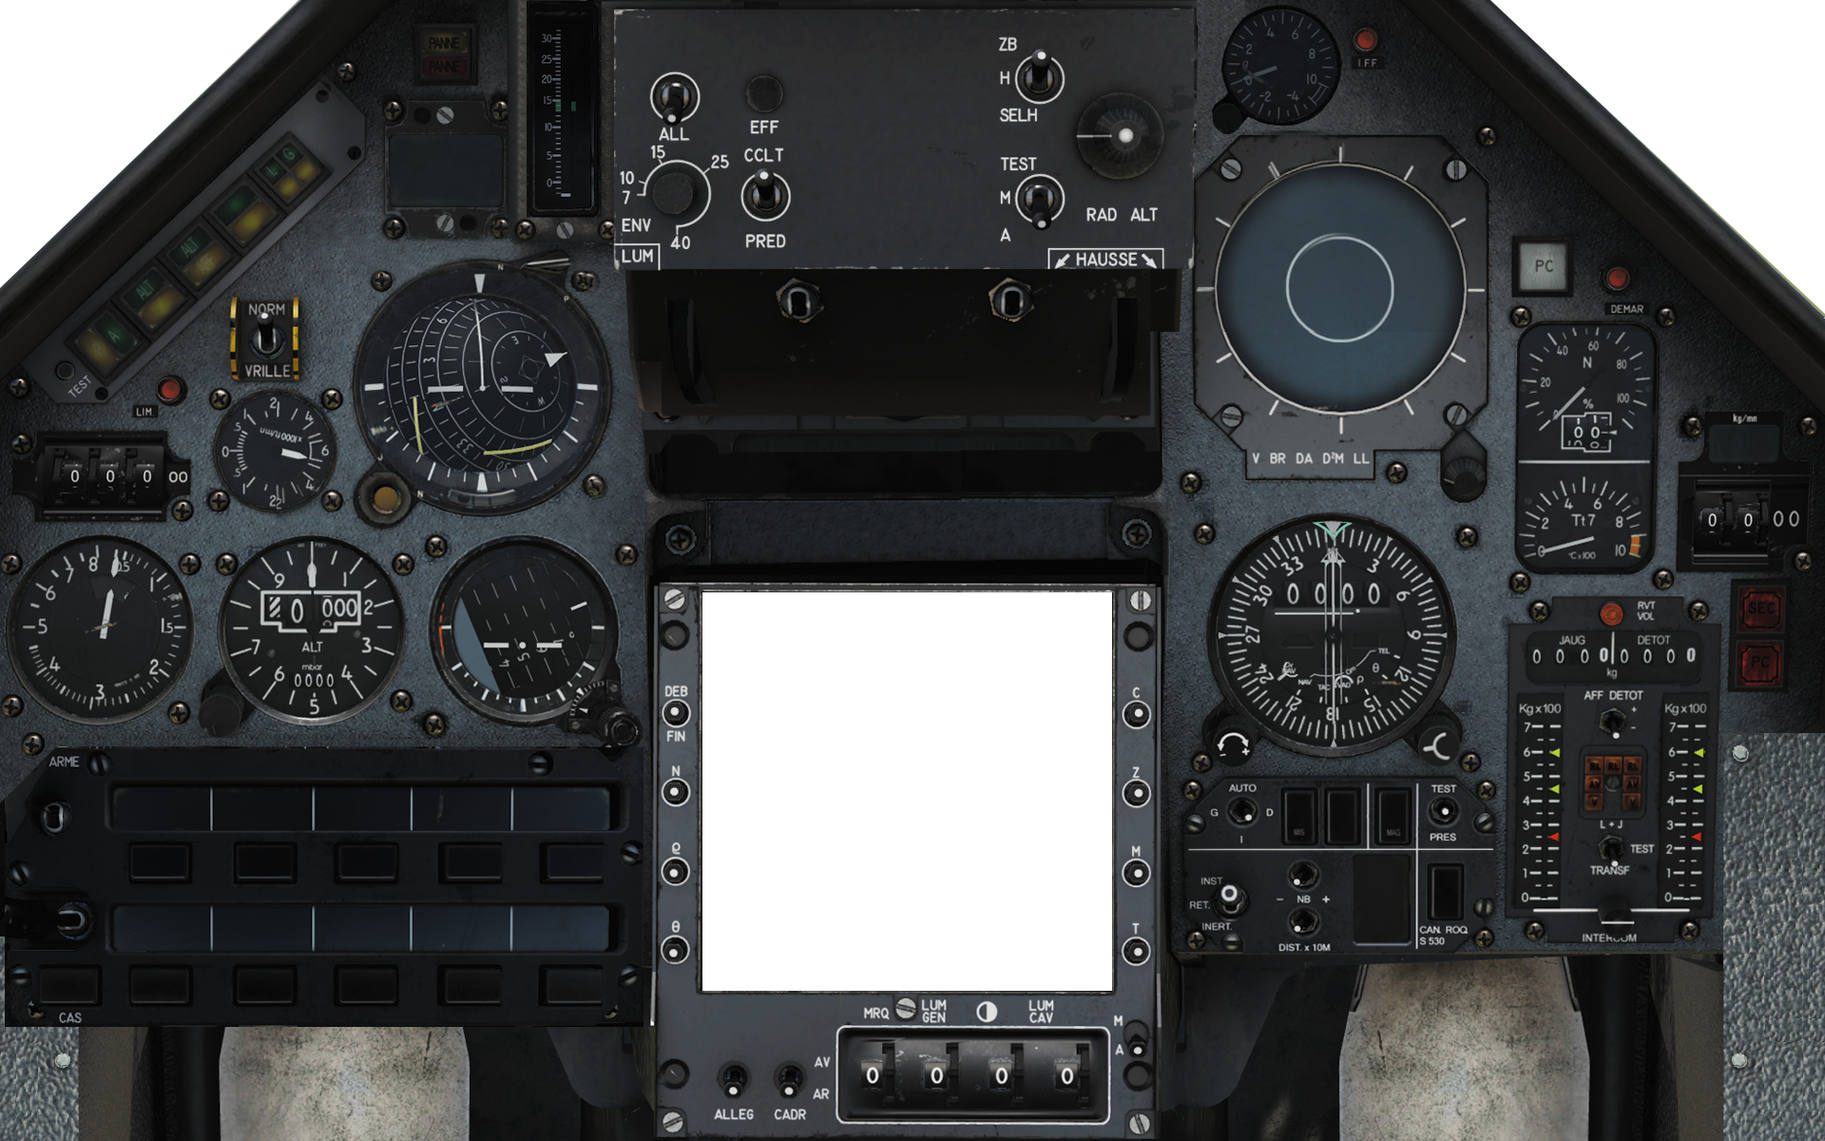
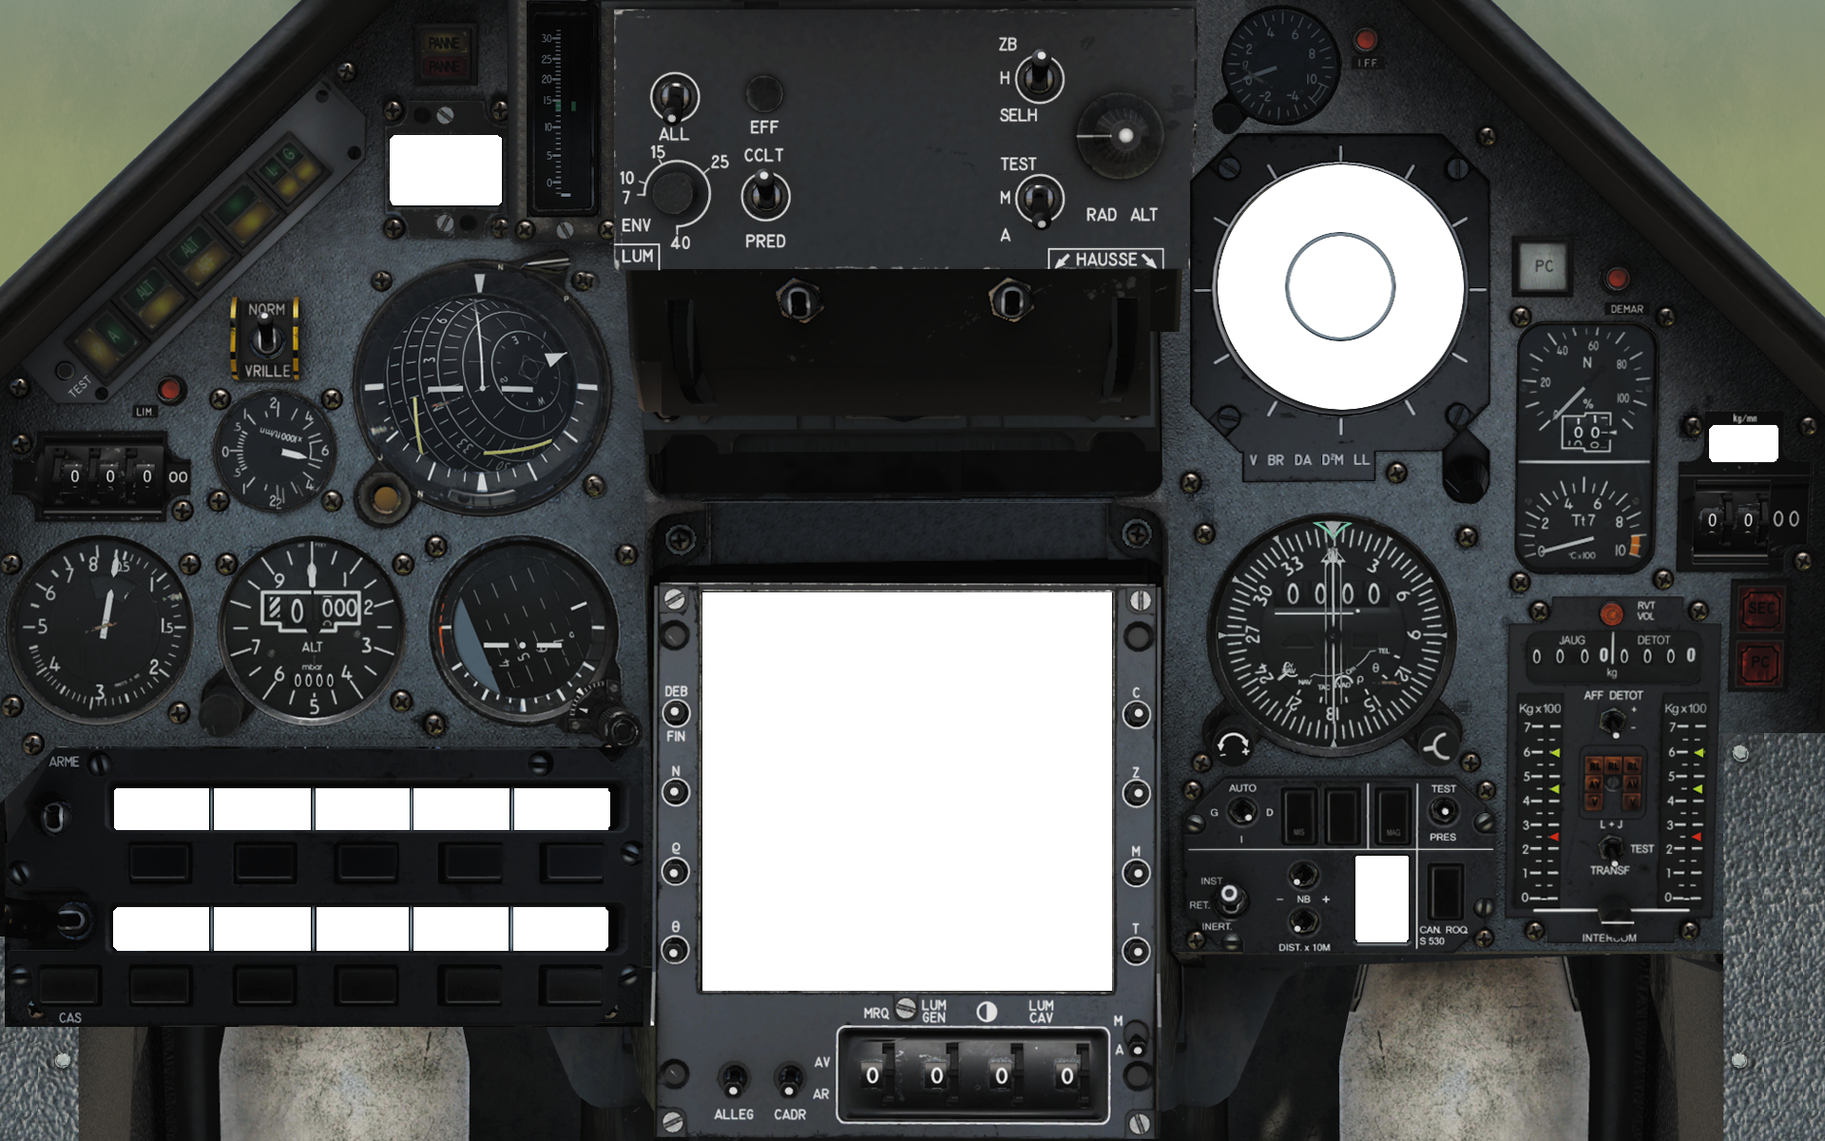
Added the Landing Gear panel and work on the picture of the cockpit. See the Helios.M2000C.Read.Me.txt

diff --git a/Helios/Interfaces/DCS/M2000C/M2000CInterface.cs b/Helios/Interfaces/DCS/M2000C/M2000CInterface.cs
@@ -144,6 +144,26 @@ namespace GadrocsWorkshop.Helios.Interfaces.DCS.M2000C
             AddFunction(new Switch(this, ENGPANEL, "651", new SwitchPosition[] { new SwitchPosition("0.0", "CLOSE", "3651"), new SwitchPosition("1.0", "OPEN", "3651") }, "Engine Start Panel", "Fuel Cutoff Switch Cover", "%0.1f"));    // elements["PTN_651"] = default_2_position_tumb(_("Fuel Cutoff Switch Cover"), devices.ENGPANEL, device_commands.Button_651, 651)
             AddFunction(new Switch(this, ENGPANEL, "652", new SwitchPosition[] { new SwitchPosition("1.0", "OFF", "3652"), new SwitchPosition("0.0", "ON", "3652") }, "Engine Start Panel", "Fuel Shut-Off Switch", "%0.1f"));    // elements["PTN_652"] = default_2_position_tumb(_("Fuel Cutoff Switch"), devices.ENGPANEL, device_commands.Button_652, 652)
             #endregion
+            #region  Landing Gear
+            AddFunction(new FlagValue(this, "410", "Landing Gear Panel", "A", "A Warnlamp"));
+            AddFunction(new FlagValue(this, "411", "Landing Gear Panel", "F", "F Warnlamp"));
+            AddFunction(new FlagValue(this, "412", "Landing Gear Panel", "DIRAV", "DIRA Warnlamp, blau"));
+            AddFunction(new FlagValue(this, "413", "Landing Gear Panel", "FREIN", "FREIN"));
+            AddFunction(new FlagValue(this, "414", "Landing Gear Panel", "CROSS", "Cross"));
+            AddFunction(new FlagValue(this, "415", "Landing Gear Panel", "SPAD", "SPAD"));
+            AddFunction(new FlagValue(this, "416", "Landing Gear Panel", "BIP", "Red Warnlamp under BIP"));
+            AddFunction(new FlagValue(this, "417", "Landing Gear Panel", "left-gear", "Left Gear"));
+            AddFunction(new FlagValue(this, "418", "Landing Gear Panel", "nose-gear", "Nose Gear"));
+            AddFunction(new FlagValue(this, "419", "Landing Gear Panel", "right-gear", "Right Gear"));
+            AddFunction(new Switch(this, INSTPANEL, "404", new SwitchPosition[] { new SwitchPosition("0.0", "UP", "3404"), new SwitchPosition("1.0", "DOWN", "3404") }, "Landing Gear Panel", "Landing Gear Lever", "%0.1f"));    // elements["PTN_404"] = default_animated_lever(_("Landing Gear Lever"), devices.INSTPANEL, device_commands.Button_404, 404,5.0)
+            AddFunction(new Switch(this, PCA_PPA, "463", new SwitchPosition[] { new SwitchPosition("1.0", "SECU", "3463"), new SwitchPosition("0.0", "ARMED", "3463") }, "Landing Gear Panel", "Gun Arming Switch", "%0.1f"));    // elements["PTN_463"] = default_2_position_tumb(_("Gun Arm/Safe Switch"), devices.PCA_PPA, device_commands.Button_463, 463)
+            AddFunction(new Switch(this, ENGINE, "421", new SwitchPosition[] { new SwitchPosition("0.0", "NORM", "3421"), new SwitchPosition("1.0", "GAIN CDVE", "3421") }, "Landing Gear Panel", "Fly by Wire Gain Mode Switch", "%0.1f"));    // elements["PTN_421"] = default_2_position_tumb(_("FBW Gain Mode Switch"),  devices.ENGINE, device_commands.Button_421, 421)
+            AddFunction(new Switch(this, ENGINE, "422", new SwitchPosition[] { new SwitchPosition("0.0", "AA", "3422"), new SwitchPosition("1.0", "CHARGES", "3422") }, "Landing Gear Panel", "Fly by Wire G Limiter Switch", "%0.1f"));    // elements["PTN_422"] = default_2_position_tumb(_("FBW G-Limiter Switch"),  devices.ENGINE, device_commands.Button_422, 422)
+//            AddFunction(new Switch(this, INSTPANEL, "408", new SwitchPosition[] { new SwitchPosition("0.0", "ON", "3408"), new SwitchPosition("1.0", "OFF", "3408") }, "Landing Gear Panel", "Emergency Landing Gear Lever", "%0.1f"));    // elements["PTN_408"] = default_animated_lever(_("Landing Gear Emergency Release Lever"), devices.INSTPANEL, device_commands.Button_408, 408, 5.0)
+            AddFunction(new Switch(this, INSTPANEL, "408", new SwitchPosition[] { }, "Landing Gear Panel", "Emergency Landing Gear Lever", "%0.1f"));    // elements["PTN_408"] = default_animated_lever(_("Landing Gear Emergency Release Lever"), devices.INSTPANEL, device_commands.Button_408, 408, 5.0)
+            AddFunction(new PushButton(this, PCA_PPA, "3409", "409", "Landing Gear Panel", "Emergency Jettison Lever"));    // elements["PTN_409"] = default_button(_("Emergency Jettison"), devices.PCA_PPA, device_commands.Button_409, 409, 0, 1)
+            // 
+            #endregion
             #region MCL Panel
             AddFunction(new FlagValue(this, "199", "Master Caution Lights Panel", "panne-yellow", "Master-warning"));
             AddFunction(new FlagValue(this, "200", "Master Caution Lights Panel", "panne-red", "Master-caution"));
@@ -210,16 +230,6 @@ namespace GadrocsWorkshop.Helios.Interfaces.DCS.M2000C
             AddFunction(new FlagValue(this, "367", "Indicators", "Indicators 367", "Fuel Left V"));
             AddFunction(new FlagValue(this, "368", "Indicators", "Indicators 368", "Fuel Right V"));
             AddFunction(new FlagValue(this, "405", "Indicators", "Indicators 405", "Gearhandle Innenleuchte, red"));
-            AddFunction(new FlagValue(this, "410", "Indicators", "Indicators 410", "A Warnlamp"));
-            AddFunction(new FlagValue(this, "411", "Indicators", "Indicators 411", "F Warnlamp"));
-            AddFunction(new FlagValue(this, "412", "Indicators", "Indicators 412", "DIRA Warnlamp, blau"));
-            AddFunction(new FlagValue(this, "413", "Indicators", "Indicators 413", "FREIN"));
-            AddFunction(new FlagValue(this, "414", "Indicators", "Indicators 414", "Cross"));
-            AddFunction(new FlagValue(this, "415", "Indicators", "Indicators 415", "SPAD"));
-            AddFunction(new FlagValue(this, "416", "Indicators", "Indicators 416", "Red Warnlamp under BIP"));
-            AddFunction(new FlagValue(this, "417", "Indicators", "Indicators 417", "Left Gear"));
-            AddFunction(new FlagValue(this, "418", "Indicators", "Indicators 418", "Nose Gear"));
-            AddFunction(new FlagValue(this, "419", "Indicators", "Indicators 419", "Right Gear"));
             AddFunction(new FlagValue(this, "677", "Indicators", "Indicators 677", "COM left green lamp"));
             AddFunction(new FlagValue(this, "519", "Indicators", "Indicators 519", "Oxy flow lamp"));
             AddFunction(new FlagValue(this, "490", "Indicators", "Indicators 490", "Left consule VAL"));
@@ -319,11 +329,6 @@ namespace GadrocsWorkshop.Helios.Interfaces.DCS.M2000C
                 new SwitchPosition("0.95", "Channel 19", CMD+UVHF_CHANNEL), new SwitchPosition("1", "Channel 20", CMD+UVHF_CHANNEL)}, "Radio Panel", "U/VHF Channel Selector", "%0.2f"));
                 */
             #endregion
-            #region  Landing Gear
-            //AddFunction(Switch.CreateToggleSwitch(this, INSTPANEL, "3404", "404", "Landing Gear", "Landing Gear Lever", "%0.1f"));    // elements["PTN_404"] = default_animated_lever(_("Landing Gear Lever"), devices.INSTPANEL, device_commands.Button_404, 404,5.0)
-            //AddFunction(Switch.CreateToggleSwitch(this, INSTPANEL, "3408", "408", "Landing Gear", "Landing Gear Emergency Release Lever", "%0.1f"));    // elements["PTN_408"] = default_animated_lever(_("Landing Gear Emergency Release Lever"), devices.INSTPANEL, device_commands.Button_408, 408, 5.0)
-            // 
-            #endregion
             #region  HUD/VTB"
             AddFunction(new Switch(this, VTH_VTB, "201", new SwitchPosition[] { }, "HUD/VTB", "HUD Power Switch", "%0.1f"));    // elements["PTN_201"] = multiposition_switch_limited(_("HUD Power Switch"), devices.VTH_VTB, device_commands.Button_201, 201, 3, 0.5, false, 0)
             //AddFunction(Switch.CreateToggleSwitch(this, VTH_VTB, "3203", "203", "HUD/VTB", "HUD Declutter Switch", "%0.1f"));    // elements["PTN_203"] = default_2_way_spring_switch(_("HUD Declutter Switch"), devices.VTH_VTB, device_commands.Button_203, 203, true)
@@ -354,7 +359,6 @@ namespace GadrocsWorkshop.Helios.Interfaces.DCS.M2000C
 
             #endregion
             #region  PCA/PPA
-            AddFunction(new PushButton(this, PCA_PPA, "3463", "463", "PCA/PPA", "Gun Arm/Safe Switch"));    // elements["PTN_463"] = default_2_position_tumb(_("Gun Arm/Safe Switch"), devices.PCA_PPA, device_commands.Button_463, 463)
             AddFunction(new PushButton(this, PCA_PPA, "3234", "234", "PCA/PPA", "Master Arm Switch"));    // elements["PTN_234"] = default_2_position_tumb(_("Master Arm Switch"), devices.PCA_PPA, device_commands.Button_234, 234)
             AddFunction(new PushButton(this, PCA_PPA, "3248", "248", "PCA/PPA", "Selective Jettison Switch Cover"));    // elements["PTN_248"] = default_2_position_tumb(_("Selective Jettison Switch Cover"), devices.PCA_PPA, device_commands.Button_248, 248)
             AddFunction(new PushButton(this, PCA_PPA, "3249", "249", "PCA/PPA", "Selective Jettison Switch"));    // elements["PTN_249"] = default_2_position_tumb(_("Selective Jettison Switch"), devices.PCA_PPA, device_commands.Button_249, 249)
@@ -384,7 +388,6 @@ namespace GadrocsWorkshop.Helios.Interfaces.DCS.M2000C
                                                                                                                                          //AddFunction(Switch.CreateToggleSwitch(this, PCA_PPA, "3277", "277", "PCA/PPA", "Bomb Release Quantity Selector Switch", "%0.1f"));    // elements["PTN_277"] = default_2_way_spring_switch(_("Bomb Release Quantity Selector Switch"), devices.PCA_PPA, device_commands.Button_277, 277, true)
                                                                                                                                          //AddFunction(Switch.CreateToggleSwitch(this, PCA_PPA, "3278", "278", "PCA/PPA", "Bomb Release Interval Selector Switch", "%0.1f"));    // elements["PTN_278"] = default_2_way_spring_switch(_("Bomb Release Interval Selector Switch"), devices.PCA_PPA, device_commands.Button_278, 278, true)
                                                                                                                                          // 
-            AddFunction(new PushButton(this, PCA_PPA, "3409", "409", "PCA/PPA", "Emergency Jettison"));    // elements["PTN_409"] = default_button(_("Emergency Jettison"), devices.PCA_PPA, device_commands.Button_409, 409, 0, 1)
 
             #endregion
             #region  AFCS
@@ -409,8 +412,6 @@ namespace GadrocsWorkshop.Helios.Interfaces.DCS.M2000C
             #region  FBW
             AddFunction(new PushButton(this, ENGINE, "3330", "330", "FBW", "FBW Spin Mode Switch"));    // elements["PTN_330"] = default_2_position_tumb(_("FBW Spin Mode Switch"), devices.ENGINE, device_commands.Button_330, 330)
             AddFunction(new PushButton(this, ENGINE, "3420", "420", "FBW", "FBW Gain Mode Switch Cover"));    // elements["PTN_420"] = default_2_position_tumb(_("FBW Gain Mode Switch Cover"),  devices.ENGINE, device_commands.Button_420, 420)
-            AddFunction(new PushButton(this, ENGINE, "3421", "421", "FBW", "FBW Gain Mode Switch"));    // elements["PTN_421"] = default_2_position_tumb(_("FBW Gain Mode Switch"),  devices.ENGINE, device_commands.Button_421, 421)
-            AddFunction(new PushButton(this, ENGINE, "3422", "422", "FBW", "FBW G-Limiter Switch"));    // elements["PTN_422"] = default_2_position_tumb(_("FBW G-Limiter Switch"),  devices.ENGINE, device_commands.Button_422, 422)
             AddFunction(new PushButton(this, AFCS, "3423", "423", "FBW", "FBW Reset Button"));    // elements["PTN_423"] = default_button(_("FBW Reset Button"),  devices.AFCS, device_commands.Button_423, 423)
 
             #endregion

diff --git a/Helios/Gauges/M2000C/LGPanel/LG_Panel.cs b/Helios/Gauges/M2000C/LGPanel/LG_Panel.cs
@@ -1,0 +1,183 @@
+//  Copyright 2014 Craig Courtney
+//    
+//  Helios is free software: you can redistribute it and/or modify
+//  it under the terms of the GNU General Public License as published by
+//  the Free Software Foundation, either version 3 of the License, or
+//  (at your option) any later version.
+//
+//  Helios is distributed in the hope that it will be useful,
+//  but WITHOUT ANY WARRANTY; without even the implied warranty of
+//  MERCHANTABILITY or FITNESS FOR A PARTICULAR PURPOSE.  See the
+//  GNU General Public License for more details.
+//
+//  You should have received a copy of the GNU General Public License
+//  along with this program.  If not, see <http://www.gnu.org/licenses/>.
+
+namespace GadrocsWorkshop.Helios.Gauges.M2000C
+{
+    using GadrocsWorkshop.Helios.ComponentModel;
+    using GadrocsWorkshop.Helios.Controls;
+    using System;
+    using System.Globalization;
+    using System.Windows;
+    using System.Windows.Media;
+/*
+    public class RSPositions
+    {
+        private int _position;
+        private string _name;
+        private double _rotation;
+
+        public RSPositions(int position, string name, double rotation)
+        {
+            _position = position;
+            _name = name;
+            _rotation = rotation;
+        }
+    }
+    */
+    [HeliosControl("HELIOS.M2000C.LG_PANEL", "Landing Gear Panel", "M2000C Gauges", typeof(M2000CDeviceRenderer))]
+    class M2000C_LGPanel : M2000CDevice
+    {
+        private static readonly Rect SCREEN_RECT = new Rect(0, 0, 300, 390);
+        private string _interfaceDeviceName = "Landing Gear Panel";
+        private Rect _scaledScreenRect = SCREEN_RECT;
+        
+        public M2000C_LGPanel()
+            : base("Landing Gear Panel", new Size(300, 390))
+        {
+            int row0 = 30, row1 = 173, row2 = 191, row3 = 210, row4 = 228, row5 = 232, row6 = 242, row7 = 214, row8 = 234;
+            int column1 = 202, column2 = 217, column3 = 232, column4 = 248, column5 = 262;
+            int sizeIndicX = 23, sizeIndicY = 14;
+            AddPushButton("Emergency Jettison Lever");
+
+            //First row
+            AddIndicator("A", new Point (column2, row1), new Size(sizeIndicX, sizeIndicY));
+            AddIndicator("F", new Point(column4, row1), new Size(sizeIndicX, sizeIndicY));
+            //Second row
+            AddIndicator("DIRAV", new Point(column1, row2), new Size(sizeIndicX, sizeIndicY));
+            AddIndicator("FREIN", new Point(column5, row2), new Size(sizeIndicX, sizeIndicY));
+            //Third row
+            AddIndicator("CROSS", new Point(column1, row3), new Size(sizeIndicX, sizeIndicY));
+            AddIndicator("SPAD", new Point(column5, row3), new Size(sizeIndicX, sizeIndicY));
+            //Forth row
+            AddIndicator("BIP", new Point(column3, row4), new Size(24, 10));
+            //Fifth row
+            AddIndicator("left-gear", new Point(219, row5), new Size(7,20));
+            AddIndicator("right-gear", new Point(265, row5), new Size(7, 20));
+            //Sixth row
+            AddIndicator("nose-gear", new Point(242, row6), new Size(7, 17));
+
+            AddSwitch("Gun Arming Switch", "{M2000C}/Images/Switches/red-", new Point(156, 173), new Size(25, 70), ToggleSwitchPosition.Two, ToggleSwitchType.OnOn);
+            AddSwitch("Fly by Wire Gain Mode Switch", "{M2000C}/Images/Switches/black-circle-", new Point(163, 257), new Size(25, 70), ToggleSwitchPosition.One, ToggleSwitchType.OnOn);
+            AddSwitch("Fly by Wire G Limiter Switch", "{M2000C}/Images/Switches/black-circle-", new Point(241, 255), new Size(25, 70), ToggleSwitchPosition.One, ToggleSwitchType.OnOn);
+            AddSwitch("Landing Gear Lever", "{M2000C}/Images/LGPanel/landing-gear-", new Point(70, 140), new Size(50, 170), ToggleSwitchPosition.Two, ToggleSwitchType.OnOn);
+
+            AddRotarySwitch("Emergency Landing Gear Lever");
+        }
+
+        #region Properties
+
+        public override string BezelImage
+        {
+            get { return "{M2000C}/Images/LGPanel/lg-panel.png"; }
+        }
+
+        #endregion
+
+        protected override void OnPropertyChanged(PropertyNotificationEventArgs args)
+        {
+            if (args.PropertyName.Equals("Width") || args.PropertyName.Equals("Height"))
+            {
+                double scaleX = Width / NativeSize.Width;
+                double scaleY = Height / NativeSize.Height;
+                _scaledScreenRect.Scale(scaleX, scaleY);
+            }
+            base.OnPropertyChanged(args);
+        }
+
+        private void AddIndicator(string name, Point posn, Size size)
+        {
+            AddIndicator(
+                name: name,
+                posn: posn,
+                size: size,
+                onImage: "{M2000C}/Images/LGPanel/" + name + "-on.png",
+                offImage: "{M2000C}/Images/LGPanel/" + name + "-off.png",
+                onTextColor: Color.FromArgb(0xff, 0x7e, 0xde, 0x72), //don’t need it because not using text
+                offTextColor: Color.FromArgb(0xff, 0x7e, 0xde, 0x72), //don’t need it because not using text
+                font: "", //don’t need it because not using text
+                vertical: false, //don’t need it because not using text
+                interfaceDeviceName: _interfaceDeviceName,
+                interfaceElementName: name,
+                fromCenter: false,
+                withText: false); //added in Composite Visual as an optional value with a default value set to true
+        }
+
+        private void AddSwitch(string name, string imagePrefix, Point posn, Size size, ToggleSwitchPosition defaultPosition, ToggleSwitchType defaultType, bool horizontal = false)
+        {
+            AddToggleSwitch(name: name,
+                posn: posn,
+                size: size,
+                defaultPosition: defaultPosition,
+                positionOneImage: imagePrefix + "up.png",
+                positionTwoImage: imagePrefix + "down.png",
+                defaultType: defaultType,
+                interfaceDeviceName: _interfaceDeviceName,
+                interfaceElementName: name,
+                horizontal: horizontal,
+                fromCenter: false);
+         }
+
+        private void AddPushButton(string name)
+        {
+            AddButton(name: name,
+                posn: new Point(212, 81),
+                size: new Size(70, 70),
+                image: "{M2000C}/Images/LGPanel/emergency-jettison-not-pushed.png",
+                pushedImage: "{M2000C}/Images/LGPanel/emergency-jettison-pushed.png",
+                buttonText: "",
+                interfaceDeviceName: _interfaceDeviceName,
+                interfaceElementName: name,
+                fromCenter: false);
+        }
+
+        private void AddRotarySwitch(string name)
+        {
+            AddRotarySwitch(name: name,
+                posn: new Point(169, 76),
+                size: new Size(44, 150),
+                knobImage: "{M2000C}/Images/LGPanel/emergency-landing-gear-lever.png",
+//                positions: new RSPositions[] { new RSPositions( 0, "on", 0d ), new RSPositions( 1, "off", 90d) },
+                defaultPosition: 0,
+                interfaceDeviceName: _interfaceDeviceName,
+                interfaceElementName: name, 
+                fromCenter:true);
+        }
+
+        public override bool HitTest(Point location)
+        {
+            if (_scaledScreenRect.Contains(location))
+            {
+                return false;
+            }
+
+            return true;
+        }
+
+        public override void MouseDown(Point location)
+        {
+            // No-Op
+        }
+
+        public override void MouseDrag(Point location)
+        {
+            // No-Op
+        }
+
+        public override void MouseUp(Point location)
+        {
+            // No-Op
+        }
+    }
+}

diff --git a/Helios/CompositeVisual.cs b/Helios/CompositeVisual.cs
@@ -381,6 +381,49 @@ namespace GadrocsWorkshop.Helios
             return _knob;
         }
 
+        protected RotarySwitch AddRotarySwitch(string name, Point posn, Size size,
+            string knobImage, int defaultPosition, //Helios.Gauges.M2000C.RSPositions[] positions,
+            string interfaceDeviceName, string interfaceElementName, bool fromCenter)
+        {
+            if (fromCenter)
+                posn = FromCenter(posn, size);
+            string componentName = GetComponentName(name);
+            RotarySwitch _knob = new RotarySwitch
+            {
+                Name = componentName,
+                KnobImage = knobImage,
+                DrawLabels = false,
+                DrawLines = false,
+                Top = posn.Y,
+                Left = posn.X,
+                Width = size.Width,
+                Height = size.Height,
+                DefaultPosition = defaultPosition
+            };
+            _knob.Positions.Clear();
+            _knob.DefaultPosition = defaultPosition;
+
+
+            Children.Add(_knob);
+
+            foreach (IBindingTrigger trigger in _knob.Triggers)
+            {
+                AddTrigger(trigger, componentName);
+            }
+            AddAction(_knob.Actions["set.position"], componentName);
+
+            AddDefaultOutputBinding(
+                childName: componentName,
+                deviceTriggerName: "position.changed",
+                interfaceActionName: interfaceDeviceName + ".set." + interfaceElementName
+            );
+            AddDefaultInputBinding(
+                childName: componentName,
+                interfaceTriggerName: interfaceDeviceName + "." + interfaceElementName + ".changed",
+                deviceActionName: "set.position");
+
+            return _knob;
+        }
 
         protected PushButton AddButton(string name, Point posn, Size size, string image, string pushedImage,
             string buttonText, string interfaceDeviceName, string interfaceElementName, bool fromCenter)
